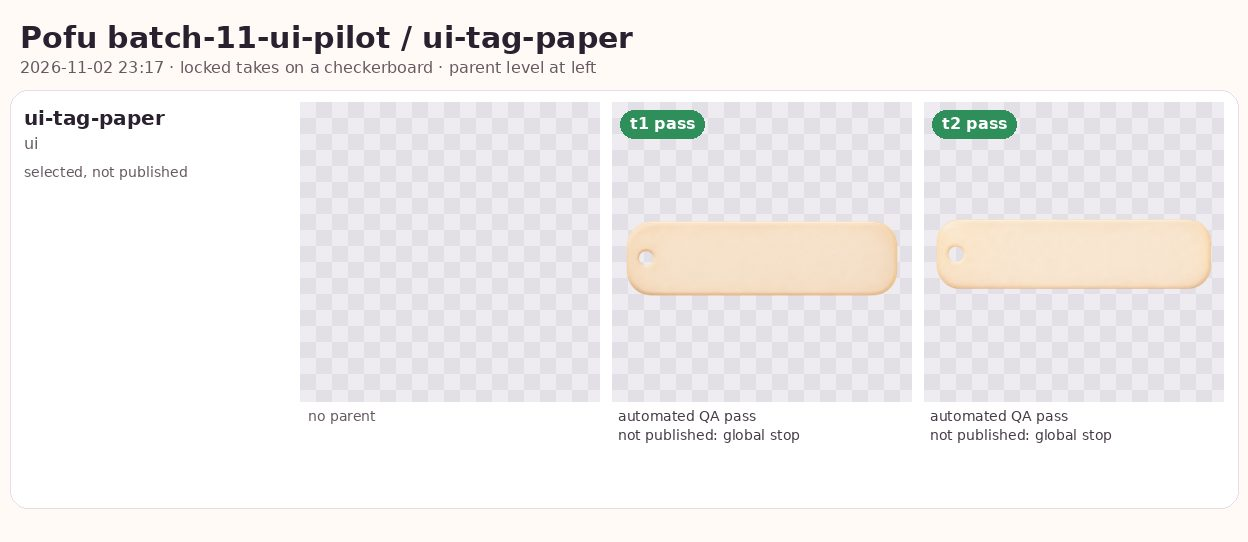
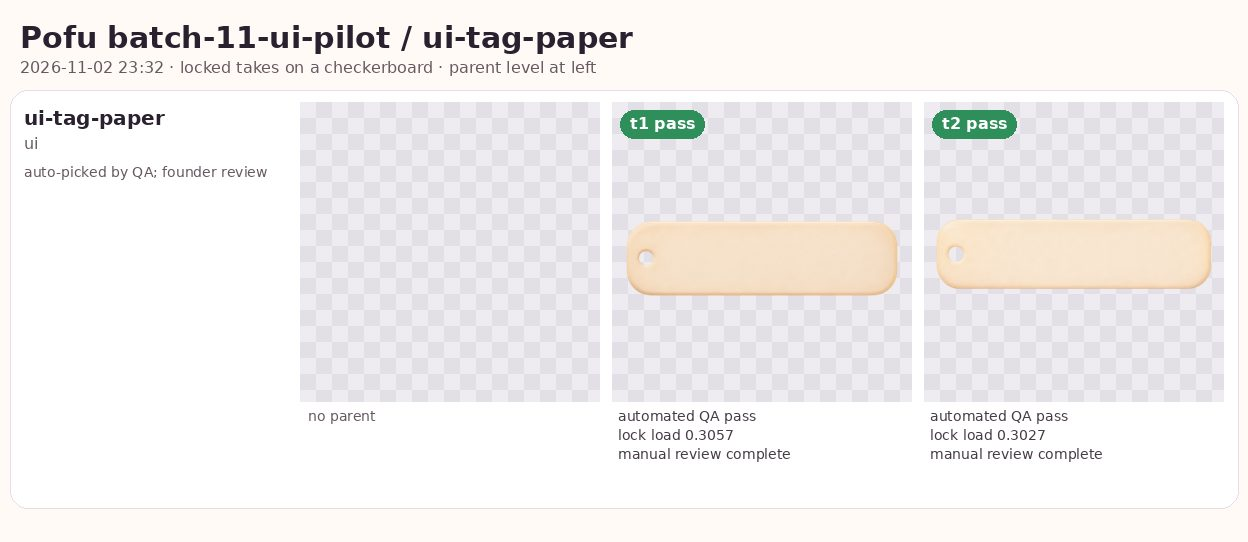
design(art): publish retained ui-tag-paper selection
Generated-With: OpenAI Codex

Changed region(s): [[0.75, 0.797, 0.9062, 0.8561], [0.5, 0.797, 0.6562, 0.8561], [0.0, 0.2952, 0.2188, 0.3247]]

diff --git a/design/art/ui/ui-tag-paper/provenance.md b/design/art/ui/ui-tag-paper/provenance.md
@@ -1,0 +1,69 @@
+# ui__tag-paper
+
+- **Approved:** 2026-11-02T23:32:25+00:00 from batch `batch-11-ui-pilot`, job `ui-tag-paper`, take t2
+  of 2 considered.
+- **Generating account:** Founder's uncle's ChatGPT plan, used by the founder with permission
+  (chatgpt-plan).
+- **Tool:** codex-cloud;
+  generated 2026-11-02T23:14:29+00:00.
+- **Post-processing (human-authored, documented per art bible section 13):**
+  canvas fit, style lock preset `lock-light` (style_lock.json v2).
+- **Files:** `raw.webp` is the take as generated (webp lossless), kept so the look can be re-locked; `ui-tag-paper.png` is the locked master the app and later edits use.
+- **Review note:** auto-picked by QA; founder review pending. Retained take2 reviewed at26pt height: plain cream centre, rounded edge and punched hole remain inside the specified end caps; no string or text.
+
+## References
+
+- `design/reference/palette-card-world-props.png`: The palette card for props.
+
+## Prompt (fingerprint d8f524efd1bd73c6)
+
+```text
+REFERENCES (attached, in this order):
+1. The palette card for props.
+
+A wide, slim paper tag of warm cream paper with softly rounded
+corners, one small round punched hole near its left end (no string,
+no ribbon), a faint slightly darker paper edge, the middle flat and
+empty. Seen straight on. Nothing written on it.
+
+CRAFTED FACE: a painted surface for a control that the app slices and
+stretches (the crafted skin of the Home A/B, ADR-0018 timing amendment).
+Paint only the material, never the control's content: no text, no letters,
+no numbers, no symbols, no icons, no glass, no frosted or transparent
+parts. The face is lit from straight above, so the centre is perfectly flat
+and even from left to right and top to bottom of its middle (no gradient
+that would stretch badly, no spots, no texture that varies along the
+width). Every rounded edge, lip and shadow sits inside the outer margin
+that the slice caps will hold; the middle is a plain, calm area. A clean
+silhouette on a transparent background, centered, with no ground shadow,
+no cast shadow, no outline and no border. Material is matte-to-soft-gloss
+clay glaze or paper, painted in the same soft, milky, high-key picture-book
+style as the world's props.
+
+STYLE: soft painterly 2D illustration from the same picture book as the
+attached hamster: the same gentle airbrushed shading, the same light,
+high-key values and the same milky pastel colors. Simple, rounded, chunky
+shapes with few parts; fewer, larger shapes, because this is seen small on
+a phone. Every material is painted matte, as a soft form with broad,
+smooth value changes: wood without grain, metal without hammering or
+reflections, glass as a soft tinted shape, cloth without weave. At most
+one small, soft highlight per object; no glints, no shine. Colors are
+muted and lifted toward cream; the darkest shadow is a warm mid-brown,
+never near black. Warm diffused key light from the upper left, a faint
+warm rim light along the right edge, soft ambient shadow only where forms
+touch. Clean, calm, uncluttered. No outlines, no hard edges. No text, no
+letters, no numbers, no logos, no watermark, no border, no frame, no
+sticker outline.
+
+Output: one image, transparent background PNG, square 1024 x 1024.
+```
+
+## QA at approval
+
+- pass: transparency (source has an alpha channel)
+- pass: canvas (1254x1254 scaled x0.817 into 1024x1024)
+- pass: chroma_ceiling (chroma p95 20 (R1 51))
+- pass: value_floor (lightness p5 88 (R1 59))
+- pass: detail_budget (detail at display size 0.6 (R1 5.3))
+- pass: lock_load (the lock moved colors by mean dE 0.3)
+- pass: palette_drift (mean dE 0.5, p95 1.0, off-palette 0.0%)
